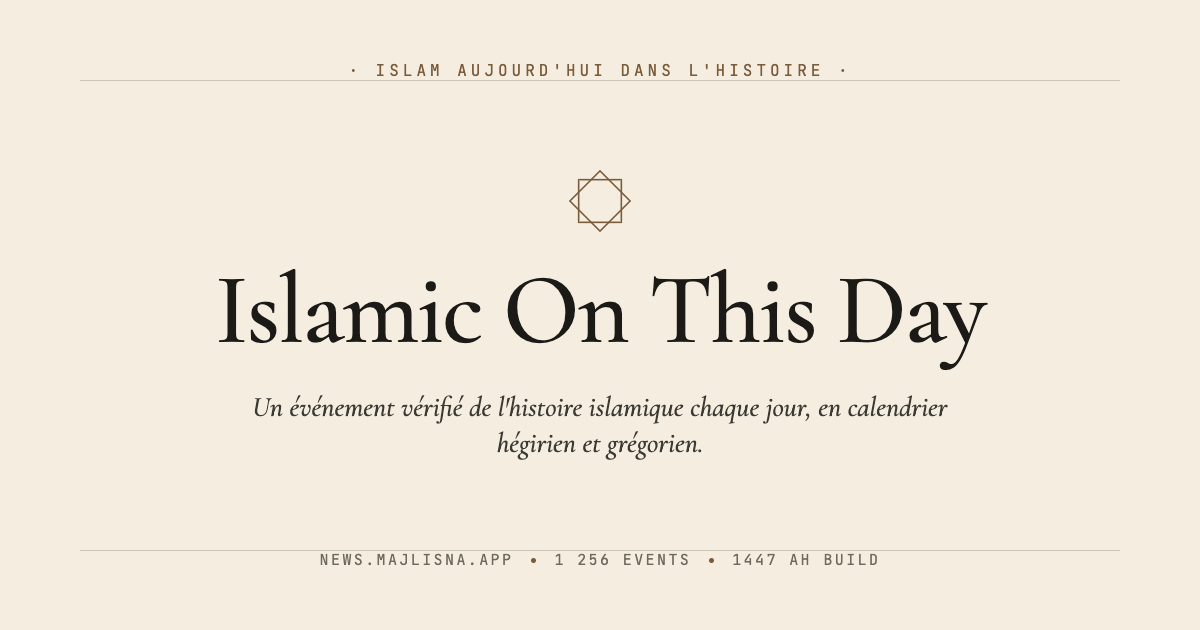
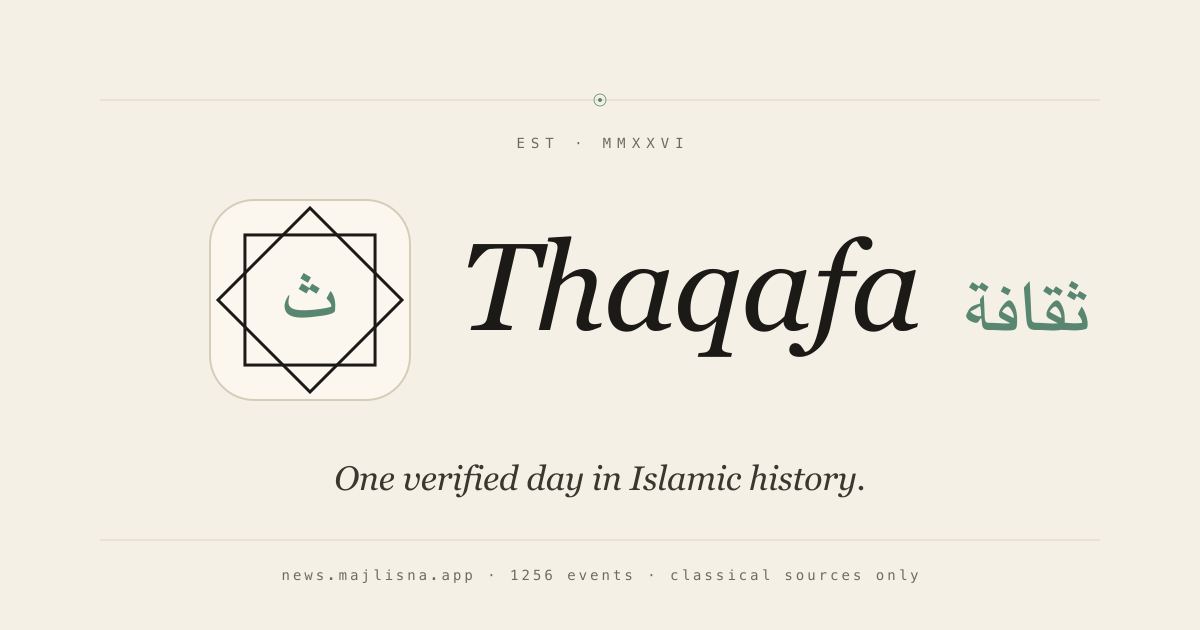
feat(brand): ⭐ port the Thaqafa mark to Flutter + new OG card
Mobile port of the web's ``ThaqafaMark`` / ``ThaqafaLockup`` so the
in-app brand surfaces match the web header, the favicon, and the new
app icon.

  - ``mobile/lib/shared/thaqafa_mark.dart`` — ``ThaqafaMark`` (the
    tile alone) and ``ThaqafaLockup`` (tile + italic Cormorant
    "Thaqafa" + accent "ثقافة"). Both pull from the editorial
    tokens (paperHi / rule / ink / accent) so dark mode flips for
    free. Star geometry mirrors the design canvas (half-extent 0.92,
    glyph 42% of canvas, stroke ~size/80). Latin uses
    ``GoogleFonts.cormorantGaramond``, Arabic ``GoogleFonts.amiri``.

  - Replaced the brand-mark ``EightPointStar`` instances with
    ``ThaqafaMark`` in: today loading + error states (size 48), the
    masthead row (size 22), the AppShell home bar (size 22), sign-in
    + sign-up (size 56), about (size 48), bookmarks empty state
    (size 48), onboarding hero (size 64). Decorative
    ``EightPointStar`` (frieze rosettes via ``FriezeRule``) stays
    intact — the primitive still has ornamental uses.

  - ``web/public/og-image.png`` regenerated with the new mark:
    1200×630 cream paper, centred lockup, Cormorant tagline,
    JetBrains Mono colophon, frieze rules top/bottom.

  - ``docs/brand/og.svg`` checked in as the editable source of the
    OG card so anyone can re-render with ``rsvg-convert``.

diff --git a/mobile/lib/shared/thaqafa_mark.dart b/mobile/lib/shared/thaqafa_mark.dart
@@ -1,0 +1,170 @@
+// Thaqafa brand mark — Flutter port of the web's ``ThaqafaMark`` /
+// ``ThaqafaLockup`` (web/src/components/design/ThaqafaMark.tsx).
+//
+// The mark is an 8-point khātam (rub al-hizb / two interlocking squares)
+// framing the Arabic letter ث (Thā). All colours pull from the project's
+// editorial tokens so dark mode flips for free.
+
+import 'dart:math' as math;
+
+import 'package:flutter/material.dart';
+import 'package:google_fonts/google_fonts.dart';
+import 'package:thaqafa/core/theme/thaqafa_tokens.dart';
+
+/// The square brand tile — paper-hi background, hairline rule border,
+/// outline 8-point star in ink, ث glyph in accent verdigris. Mirrors
+/// the web ``AppIconMark`` ``style="star-light"`` + ``glyph="arabic"``.
+class ThaqafaMark extends StatelessWidget {
+  const ThaqafaMark({this.size = 40, super.key});
+
+  /// Pixel side of the square tile. The internal star + glyph scale
+  /// proportionally, matching the design canvas's geometry.
+  final double size;
+
+  @override
+  Widget build(BuildContext context) {
+    final t = context.tokens;
+    return Container(
+      width: size,
+      height: size,
+      decoration: BoxDecoration(
+        color: t.paperHi,
+        borderRadius: BorderRadius.circular(size * 0.22),
+        border: Border.all(color: t.rule, width: 1),
+      ),
+      child: Stack(
+        alignment: Alignment.center,
+        children: [
+          // Outline 8-point star painted at 86% of the tile.
+          Center(
+            child: SizedBox(
+              width: size * 0.86,
+              height: size * 0.86,
+              child: CustomPaint(
+                painter: _ThaqafaStarPainter(
+                  color: t.ink,
+                  strokeWidth: math.max(0.6, size / 80),
+                ),
+              ),
+            ),
+          ),
+          // ث glyph centered, in accent verdigris.
+          Padding(
+            padding: EdgeInsets.only(bottom: size * 0.04),
+            child: Text(
+              'ث',
+              style: GoogleFonts.amiri(
+                fontSize: size * 0.42,
+                fontWeight: FontWeight.w500,
+                color: t.accent,
+                height: 1,
+              ),
+            ),
+          ),
+        ],
+      ),
+    );
+  }
+}
+
+/// Horizontal lockup: tile + italic Cormorant "Thaqafa" + accent
+/// "ثقافة". Drop the Arabic on small viewports via ``hideArabic``.
+class ThaqafaLockup extends StatelessWidget {
+  const ThaqafaLockup({
+    this.size = 40,
+    this.hideArabic = false,
+    super.key,
+  });
+
+  final double size;
+  final bool hideArabic;
+
+  @override
+  Widget build(BuildContext context) {
+    final t = context.tokens;
+    return Row(
+      mainAxisSize: MainAxisSize.min,
+      crossAxisAlignment: CrossAxisAlignment.center,
+      children: [
+        ThaqafaMark(size: size),
+        SizedBox(width: size * 0.32),
+        Text.rich(
+          TextSpan(
+            children: [
+              TextSpan(
+                text: 'Thaqafa',
+                style: GoogleFonts.cormorantGaramond(
+                  fontSize: size * 0.65,
+                  fontStyle: FontStyle.italic,
+                  fontWeight: FontWeight.w500,
+                  color: t.ink,
+                  letterSpacing: -0.4,
+                  height: 1,
+                ),
+              ),
+              if (!hideArabic) ...[
+                WidgetSpan(child: SizedBox(width: size * 0.22)),
+                TextSpan(
+                  text: 'ثقافة',
+                  style: GoogleFonts.amiri(
+                    fontSize: size * 0.45,
+                    fontWeight: FontWeight.w500,
+                    color: t.accent,
+                    height: 1,
+                  ),
+                ),
+              ],
+            ],
+          ),
+        ),
+      ],
+    );
+  }
+}
+
+/// Painter for the two interlocking squares forming the 8-point star.
+/// Geometry matches the design canvas: vertices at 92% of the half-
+/// extent, one square axis-aligned, the other rotated 45°.
+class _ThaqafaStarPainter extends CustomPainter {
+  _ThaqafaStarPainter({required this.color, required this.strokeWidth});
+
+  final Color color;
+  final double strokeWidth;
+
+  @override
+  void paint(Canvas canvas, Size size) {
+    final paint = Paint()
+      ..color = color
+      ..style = PaintingStyle.stroke
+      ..strokeWidth = strokeWidth
+      ..strokeJoin = StrokeJoin.miter
+      ..strokeCap = StrokeCap.butt;
+
+    final cx = size.width / 2;
+    final cy = size.height / 2;
+    final half = (size.width / 2) * 0.92;
+
+    Path makeSquare(double rotDeg) {
+      final path = Path();
+      for (var i = 0; i < 4; i++) {
+        final a = math.pi / 2 * i + rotDeg * math.pi / 180;
+        final x = cx + half * math.cos(a);
+        final y = cy + half * math.sin(a);
+        if (i == 0) {
+          path.moveTo(x, y);
+        } else {
+          path.lineTo(x, y);
+        }
+      }
+      path.close();
+      return path;
+    }
+
+    canvas.drawPath(makeSquare(0), paint);
+    canvas.drawPath(makeSquare(45), paint);
+  }
+
+  @override
+  bool shouldRepaint(_ThaqafaStarPainter oldDelegate) =>
+      oldDelegate.color != color || oldDelegate.strokeWidth != strokeWidth;
+}

diff --git a/mobile/lib/features/today/today_screen.dart b/mobile/lib/features/today/today_screen.dart
@@ -14,6 +14,7 @@ import 'package:thaqafa/features/today/widgets/masthead.dart';
 import 'package:thaqafa/features/today/widgets/secondary_card.dart';
 import 'package:thaqafa/i18n/strings.g.dart';
 import 'package:thaqafa/shared/primitives.dart';
+import 'package:thaqafa/shared/thaqafa_mark.dart';
 import 'package:thaqafa/shared/verse_epigraph.dart';
 
 /// The Today route — fetches `/api/v1/today`, renders the masthead +
@@ -90,7 +91,7 @@ class _LoadingState extends StatelessWidget {
       child: Column(
         mainAxisAlignment: MainAxisAlignment.center,
         children: [
-          const EightPointStar(size: 36),
+          const ThaqafaMark(size: 48),
           const SizedBox(height: 24),
           Text(
             i18n.today.loading.toUpperCase(),
@@ -121,7 +122,7 @@ class _ErrorState extends StatelessWidget {
         child: Column(
           mainAxisAlignment: MainAxisAlignment.center,
           children: [
-            const EightPointStar(size: 36),
+            const ThaqafaMark(size: 48),
             const SizedBox(height: 16),
             Text(
               i18n.today.load_failed,

diff --git a/mobile/lib/features/auth/sign_in_screen.dart b/mobile/lib/features/auth/sign_in_screen.dart
@@ -7,7 +7,7 @@ import 'package:thaqafa/core/theme/thaqafa_typography.dart';
 import 'package:thaqafa/features/auth/auth_provider.dart';
 import 'package:thaqafa/features/auth/auth_state.dart';
 import 'package:thaqafa/i18n/strings.g.dart';
-import 'package:thaqafa/shared/primitives.dart';
+import 'package:thaqafa/shared/thaqafa_mark.dart';
 
 class SignInScreen extends ConsumerStatefulWidget {
   const SignInScreen({super.key});
@@ -64,7 +64,7 @@ class _SignInScreenState extends ConsumerState<SignInScreen> {
         child: ListView(
           padding: const EdgeInsets.fromLTRB(28, 0, 28, 32),
           children: [
-            const Center(child: EightPointStar(size: 36)),
+            const Center(child: ThaqafaMark(size: 56)),
             const SizedBox(height: 18),
             Text(
               i18n.auth.sign_in_title,

diff --git a/mobile/lib/features/auth/sign_up_screen.dart b/mobile/lib/features/auth/sign_up_screen.dart
@@ -7,7 +7,7 @@ import 'package:thaqafa/core/theme/thaqafa_typography.dart';
 import 'package:thaqafa/features/auth/auth_provider.dart';
 import 'package:thaqafa/features/auth/auth_state.dart';
 import 'package:thaqafa/i18n/strings.g.dart';
-import 'package:thaqafa/shared/primitives.dart';
+import 'package:thaqafa/shared/thaqafa_mark.dart';
 
 class SignUpScreen extends ConsumerStatefulWidget {
   const SignUpScreen({super.key});
@@ -67,7 +67,7 @@ class _SignUpScreenState extends ConsumerState<SignUpScreen> {
         child: ListView(
           padding: const EdgeInsets.fromLTRB(28, 0, 28, 32),
           children: [
-            const Center(child: EightPointStar(size: 36)),
+            const Center(child: ThaqafaMark(size: 56)),
             const SizedBox(height: 18),
             Text(
               i18n.auth.sign_up_title,

diff --git a/mobile/lib/features/shared/app_shell.dart b/mobile/lib/features/shared/app_shell.dart
@@ -4,7 +4,7 @@ import 'package:thaqafa/core/router/app_router.dart';
 import 'package:thaqafa/core/theme/thaqafa_tokens.dart';
 import 'package:thaqafa/core/theme/thaqafa_typography.dart';
 import 'package:thaqafa/i18n/strings.g.dart';
-import 'package:thaqafa/shared/primitives.dart';
+import 'package:thaqafa/shared/thaqafa_mark.dart';
 
 /// Shell wrapping the three top-level routes (Recent / Sacred days /
 /// Settings) with a custom mono-uppercase bottom navigation bar.
@@ -97,7 +97,7 @@ class _HomeBar extends StatelessWidget {
                 textDirection: Directionality.of(context),
               ),
               const SizedBox(width: 12),
-              const EightPointStar(size: 22),
+              const ThaqafaMark(size: 22),
               const SizedBox(width: 12),
               Text(
                 i18n.nav.today.toUpperCase(),

diff --git a/mobile/lib/features/today/widgets/masthead.dart b/mobile/lib/features/today/widgets/masthead.dart
@@ -4,7 +4,7 @@ import 'package:thaqafa/core/i18n/weekday.dart';
 import 'package:thaqafa/core/theme/thaqafa_tokens.dart';
 import 'package:thaqafa/core/theme/thaqafa_typography.dart';
 import 'package:thaqafa/i18n/strings.g.dart';
-import 'package:thaqafa/shared/primitives.dart';
+import 'package:thaqafa/shared/thaqafa_mark.dart';
 
 /// Compact masthead for the Today screen — eight-point star left,
 /// Hijri date right, mono-cap eyebrow centred underneath. Same role
@@ -27,7 +27,7 @@ class Masthead extends StatelessWidget {
         children: [
           Row(
             children: [
-              const EightPointStar(size: 22),
+              const ThaqafaMark(size: 22),
               const SizedBox(width: 10),
               Expanded(
                 child: Text(

diff --git a/mobile/lib/features/about/about_screen.dart b/mobile/lib/features/about/about_screen.dart
@@ -5,6 +5,7 @@ import 'package:thaqafa/core/theme/thaqafa_tokens.dart';
 import 'package:thaqafa/core/theme/thaqafa_typography.dart';
 import 'package:thaqafa/i18n/strings.g.dart';
 import 'package:thaqafa/shared/primitives.dart';
+import 'package:thaqafa/shared/thaqafa_mark.dart';
 import 'package:url_launcher/url_launcher.dart';
 
 const _skills = [
@@ -45,7 +46,7 @@ class AboutScreen extends StatelessWidget {
           padding: const EdgeInsets.fromLTRB(28, 0, 28, 40),
           children: [
             // --- Hero ---
-            const Center(child: EightPointStar(size: 32)),
+            const Center(child: ThaqafaMark(size: 48)),
             const SizedBox(height: 12),
             Center(child: Eyebrow('· ${about.title} ·', color: EyebrowColor.accent)),
             const SizedBox(height: 14),

diff --git a/mobile/lib/features/bookmarks/bookmarks_list_screen.dart b/mobile/lib/features/bookmarks/bookmarks_list_screen.dart
@@ -9,6 +9,7 @@ import 'package:thaqafa/core/theme/thaqafa_typography.dart';
 import 'package:thaqafa/features/bookmarks/bookmarks_provider.dart';
 import 'package:thaqafa/i18n/strings.g.dart';
 import 'package:thaqafa/shared/primitives.dart';
+import 'package:thaqafa/shared/thaqafa_mark.dart';
 
 /// User's saved-for-later list. Reads ``BookmarksNotifier``; tapping
 /// a row pushes the matching event/lesson detail.
@@ -59,7 +60,7 @@ class BookmarksListScreen extends ConsumerWidget {
                     padding: const EdgeInsets.fromLTRB(28, 80, 28, 0),
                     child: Column(
                       children: [
-                        const EightPointStar(size: 36),
+                        const ThaqafaMark(size: 48),
                         const SizedBox(height: 18),
                         Text(
                           i18n.bookmarks.empty,

diff --git a/mobile/lib/features/onboarding/onboarding_screen.dart b/mobile/lib/features/onboarding/onboarding_screen.dart
@@ -12,6 +12,7 @@ import 'package:thaqafa/core/theme/thaqafa_tokens.dart';
 import 'package:thaqafa/core/theme/thaqafa_typography.dart';
 import 'package:thaqafa/i18n/strings.g.dart';
 import 'package:thaqafa/shared/primitives.dart';
+import 'package:thaqafa/shared/thaqafa_mark.dart';
 
 /// First-launch onboarding — three pages:
 ///   1. Concept: the project's promise + brand mark
@@ -182,7 +183,7 @@ class _ConceptPage extends StatelessWidget {
         children: [
           Column(
             children: [
-              const EightPointStar(size: 44),
+              const ThaqafaMark(size: 64),
               const SizedBox(height: 18),
               Text(
                 i18n.onboarding.eyebrow.toUpperCase(),